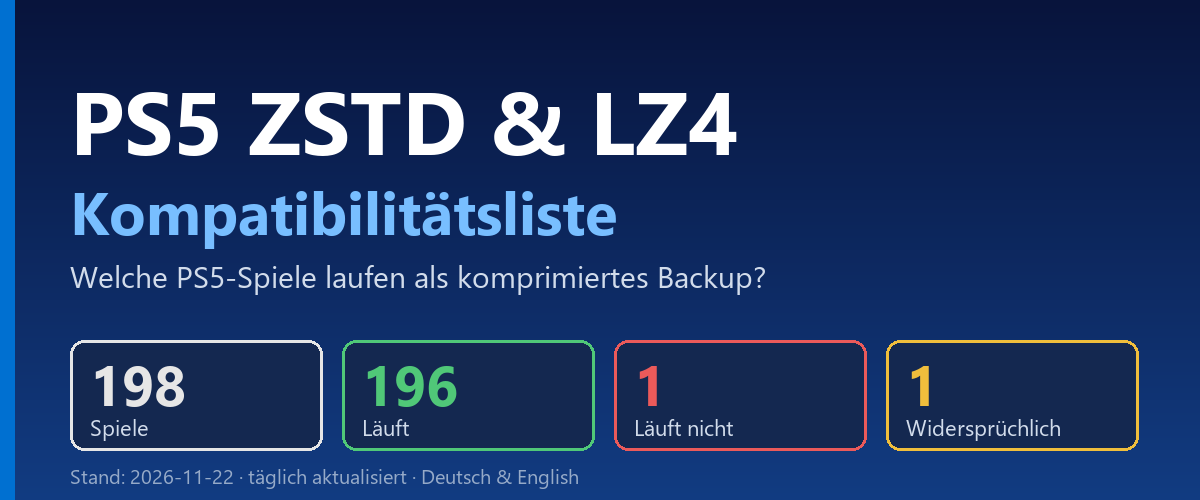
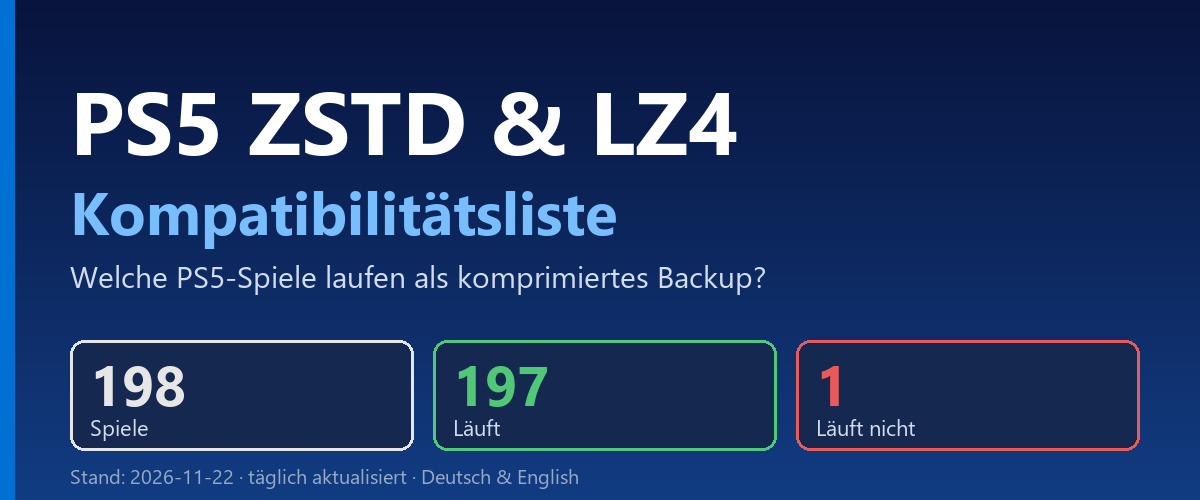
Ninja Gaiden 4: Bericht von carljhonsen317 ersetzt älteren Fehlerbericht, Status Läuft

Changed region(s): [[0.4933, 0.66, 0.9558, 0.9], [0.2467, 0.66, 0.4625, 0.9]]

diff --git a/CHANGELOG.de.md b/CHANGELOG.de.md
@@ -49,7 +49,7 @@ Neue und geänderte Einträge pro Aktualisierung (neueste zuerst).
 | Spiel | Änderung |
 |---|---|
 | GRID Legends | Testberichte: 1 → 2 (neu von carljhonsen317): exFAT-Image; läuft mit ampr-emu-ng 0.4.1 (carljhonsen317, FW 9.60) |
-| Ninja Gaiden 4 | Status: Läuft nicht → Widersprüchlich; Format: – → ZSTD; Testberichte: 1 → 2 (neu von carljhonsen317): exFAT-Image; läuft mit ampr-emu-ng 0.5.0 (carljhonsen317, FW 9.60) |
+| Ninja Gaiden 4 | Status: Läuft nicht → Läuft (Bericht von carljhonsen317 ersetzt den älteren Fehlerbericht); Format: – → ZSTD; Testberichte: 1 → 2 (neu von carljhonsen317): exFAT-Image; läuft mit ampr-emu-ng 0.5.0 (carljhonsen317, FW 9.60) |
 | Senua's Saga: Hellblade II | Testberichte: 1 → 2 (neu von carljhonsen317): exFAT-Image; läuft mit ampr-emu-ng 0.4.1 (carljhonsen317, FW 9.60) |
 | Yakuza Kiwami 3 & Dark Ties | Testberichte: 1 → 2 (neu von carljhonsen317): exFAT-Image; läuft mit ampr-emu-ng 0.5.0 (carljhonsen317, FW 9.60) |
 

diff --git a/CHANGELOG.md b/CHANGELOG.md
@@ -49,7 +49,7 @@ New and changed entries per update (newest first).
 | Game | Change |
 |---|---|
 | GRID Legends | Test reports: 1 → 2 (new from carljhonsen317): exFAT image; works with ampr-emu-ng 0.4.1 (carljhonsen317, FW 9.60) |
-| Ninja Gaiden 4 | Status: Does not run → Conflicting; Format: – → ZSTD; Test reports: 1 → 2 (new from carljhonsen317): exFAT image; works with ampr-emu-ng 0.5.0 (carljhonsen317, FW 9.60) |
+| Ninja Gaiden 4 | Status: Does not run → Works (carljhonsen317's report replaces the older failure report); Format: – → ZSTD; Test reports: 1 → 2 (new from carljhonsen317): exFAT image; works with ampr-emu-ng 0.5.0 (carljhonsen317, FW 9.60) |
 | Senua's Saga: Hellblade II | Test reports: 1 → 2 (new from carljhonsen317): exFAT image; works with ampr-emu-ng 0.4.1 (carljhonsen317, FW 9.60) |
 | Yakuza Kiwami 3 & Dark Ties | Test reports: 1 → 2 (new from carljhonsen317): exFAT image; works with ampr-emu-ng 0.5.0 (carljhonsen317, FW 9.60) |
 

diff --git a/README.md b/README.md
@@ -21,9 +21,9 @@ See the [CHANGELOG](CHANGELOG.md) for what is new. In the PDF, new and changed g
 
 | Status | Count |
 |---|---|
-| Works | 196 |
+| Works | 197 |
 | Does not run | 1 |
-| Conflicting | 1 |
+| Conflicting | 0 |
 | Unconfirmed | 0 |
 
 - **Works**: all test reports successful
